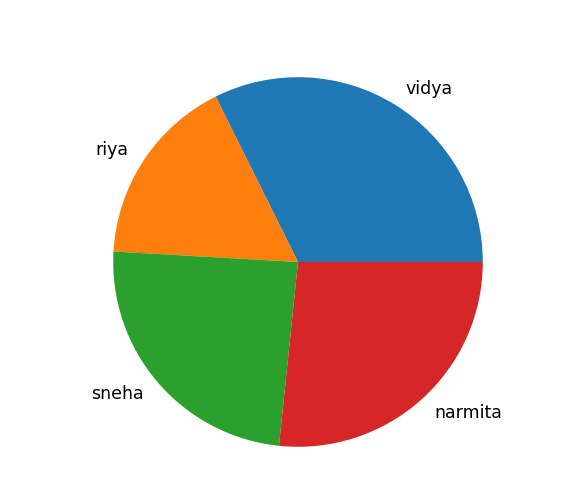
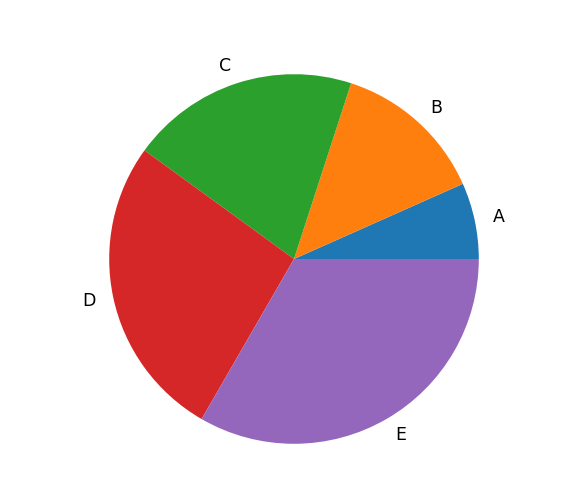
updated matplotlib-pir-charts.md file

diff --git a/contrib/plotting-visualization/matplotlib-pie-charts.md b/contrib/plotting-visualization/matplotlib-pie-charts.md
@@ -1,23 +1,90 @@
 @ -0,0 +1,118 @@
-# Pie chart
-* It is a circle chart which is divided into slices to illustrate numerical portortions.
-* With PyPlot it can created using Pie() function.
+# Pie chart in Matplotlib
+A pie chart is a type of graph that represents the data in the `circular graph`. The slices of pie show the relative size of the data, and it is a type of pictorial representation of data. A pie chart requires a list of categorical variables and numerical variables. Here, the term "pie" represents the whole, and the "slices" represent the parts of the whole.
+
+Pie charts are commonly used in business presentations like sales, operations, survey results, resources, etc. as they are pleasing to the eye and provide a quick summary.
+
+## Prerequisites
+
+Before creating pie charts in matplotlib you must ensure that you have Python as well as Matplotlib installed on your system.
+
+* In `matplotlib.pyplot` a simple pie graph can created using `Pie() function`.
 * Pie() function can only plot single type of data range only.
 
 `Labels` is used to label Slices of pie
-example:
+
+Here is an example for creating a basic pie chart.
 ```python
 import matplotlib.pyplot as plt
-contri=[17,8.8,12.75,14]
-houses=["vidya","riya","sneha","narmita"]
-plt.pie(contri,labels=houses)
+# creating dataset
+data=[10,20,30,40,50]
+labels=["A","B","C","D","E"]
+
+#creating plot
+plt.pie(data,labels=labels)
 plt.show()
 ```
+This is the output of the above code:
 ![basic pie graph](images/basic-pie-graph.png)
 
-* `autopct` is used to add formatted slice percentages to the pie chart.
+The `pie()` function takes arguments that describes the layout of the pie chart.
 
-  * `autopct  string format`   
+Here, `plt.pie(data, labels=labels)` is used to specify that the pie chart is to be plotted by taking the values from array `data` and the fractional area of each slice is represented by **data/sum(data)**. The array `labels` represents the labels of slices corresponding to each value in `data`.
+
+You can customize the graph further like specifying custom colors for slices, exploding slices, labeling wedges (slices), etc. These will be explored in the upcoming sections.
+
+## Customizing Pie Chart in Matplotlib
+
+
+### Coloring slices
+We can add custom set of colors to the slices by passing an array of colors to `colors` parameter int `pir()` function.
+
+```python
+import matplotlib.pyplot as plt
+# creating dataset
+data=[10,20,30,40,50]
+labels=["A","B","C","D","E"]
+colr = ['red', 'yellow', 'green', 'blue','orange']
+#creating plot
+plt.pie(data,labels=labels,colors=colr)
+plt.show()
+
+```
+![Coloring Slices](images/coloring_slices.png) 
+
+Here, we have created a `matplotlib.pyplot.subplots()` object which returns a `Figure` object `fig` as well as an `Axes` object `ax` both of which are used for customizing the pie chart.
+
+**Note:** Each slice of the pie chart is a `patches.Wedge` object; therefore in addition to the customizations shown here, each wedge can be customized using the `wedgeprops` argument which takes Python dictionary as parameter with name values pairs denoting the wedge properties like linewidth, edgecolor, etc.
+
+### Hatching Slices
+
+To make the pie chart more pleasing, you can pass a list of hatch patters to `hatch` parameter to set the pattern of each slice.
+
+```Python
+import matplotlib.pyplot as plt
+
+# Creating dataset
+labels = ['A','B','C','D','E']
+data = [10,20,30,40,50]
+colr = ['red', 'yellow', 'lightgreen', 'blue','orange']
+hatch = ['*', 'o', 'oO', '.', '+']     # Hatch patterns
+
+# Creating plot
+fig, ax = plt.subplots()
+ax.pie(data, labels=labels, colors=colr, hatch=hatch)
+
+# Show plot
+plt.show()
+```
+![Hatch Patterns](images/hatch_patterns.png)
+
+You can try and test your own beautiful hatch patters!
+
+### Labeling Slices
+
+`autopct` is used to add formatted slice percentages to the pie chart.
+
+`autopct  string format`   
 **"%[flags][width][.precision]type"**
 
 
@@ -42,80 +109,203 @@ plt.show()
   printed value=00123 %
   (output is printed as 2 leading zeroes)
 
-  2.) Format String: "%7.2f"
+  2.) Format String: "%5.2f"
   
   description:
   
-  width = 6 , type =float type
+  width = 5 , type =float type
   
   value=12.567
   
   printed value=_12.57
   (output is printed as 1 leading blanks)
 
+```Python
+import matplotlib.pyplot as plt
 
-* `colors` is used to change the color of the slices.
-eg:
+# Creating dataset
+labels = ['A','B','C','D','E']
+data = [10,20,30,40,50]
+colr = ['red', 'yellow', 'lightgreen', 'blue','orange']
+hatch = ['*', 'o', 'oO', '.', '+']     # Hatch patterns
+
+# Creating plot
+fig, ax = plt.subplots()
+ax.pie(data, labels=labels, colors=colr, autopct ='%1.1f%%')
+
+# Show plot
+plt.show()
 ```
-colr = ['red', 'yellow', 'green', 'blue']
+![Autopct Example](images/autopct.png)
 
+### Exploding Slices
+`explode` is used to change the position of the slices.It is used when we want to emphasize on one or more slices.
+It makes slices pulled out by given distance.
+
+```Python
+import matplotlib.pyplot as plt
+
+# Creating dataset
+labels = ['Rose','Tulip','Marigold','Sunflower','Daffodil']
+data = [11,9,17,4,7]
+colors=['red', 'lightblue', 'lightgreen', 'orange', 'pink']
+
+# Explode only the first slice, i.e 'Rose' by a distance of 0.1
+explode = [0.1, 0, 0, 0, 0]
+
+# Creating plot
+fig, ax = plt.subplots()
+ax.pie(data, labels=labels, colors=colors, explode=explode, autopct='%1.1f%%')
+
+# Show plot
+plt.show()
 ```
-* `explode` is used to change the position of the slices.
-    * It is used when we want to emphasize on one or more slices.
-    * It makes slices pulled out by given distance.
-    eg:
-
-    ```
-    expl=[0,0,0.3,0]
-    # it makes third slice exploded with a distace of 0.3 units
-    ```
+![Explode Slice](images/explode_slice.png)
 
 
-* `shadow` is used to add shadow to the pie chart.
-   * it takes boolean argument (i.e True ,False)
+### Shading slices
+`shadow` is used to add shadow to the pie chart.It takes boolean argument (i.e True ,False)
 
-* `startangle` is used to change the starting angle of the pie chart.
-* `wedgeprops` is used to change the properties of the wedges.
-example:
+```Python
+import matplotlib.pyplot as plt
+
+# Creating dataset
+labels = ['Rose','Tulip','Marigold','Sunflower','Daffodil']
+data = [11,9,17,4,7]
+colors=['red', 'lightblue', 'lightgreen', 'orange', 'pink']
+
+# Explode only the first slice, i.e 'Rose'
+explode = [0.1, 0, 0, 0, 0]
+
+# Creating plot
+fig, ax = plt.subplots()
+ax.pie(data, labels=labels, colors=colors, explode=explode, shadow=True, autopct='%1.1f%%')
+
+# Show plot
+plt.show()
 ```
-wedge_properties = {'edgecolor': 'black','linewidth': 2,'linestyle': 'dashed','alpha': 0.7}   
+![Shadow](images/shadow.png)
 
+### Rotating Slices
+`startangle` is used to rotate slicesby passing a start angle parameter.
+
+
+```Python
+import matplotlib.pyplot as plt
+
+# Creating dataset
+labels = ['Rose','Tulip','Marigold','Sunflower','Daffodil']
+data = [11,9,17,4,7]
+colors=['red', 'lightblue', 'green', 'orange', 'pink']
+
+# Creating plot
+fig, ax = plt.subplots()
+ax.pie(data, labels=labels, colors=colors, startangle=90, autopct='%1.1f%%')
+
+# Show plot
+plt.show()
 ```
-* `textprops` is used to change the properties of the text.
+![Rotating Slices](images/rotating_slices.png)
 
+The default `startangle` is 0, which would start the first slice ('Rose') on the positive x-axis. This example sets `startangle=90` such that all the slices are rotated counter-clockwise by 90 degrees, and the `'Rose'` slice starts on the positive y-axis.
+
+### Controlling Size of Pie Chart
+
+In addition to the size of figure, you can also control the size of pie chart using the `radius` parameter.
+
+```Python
+import matplotlib.pyplot as plt
+
+# Creating dataset
+labels = ['Rose','Tulip','Marigold','Sunflower','Daffodil']
+data = [11,9,17,4,7]
+colors=['red', 'lightblue', 'lightgreen', 'orange', 'pink']
+
+# Creating plot
+fig, ax = plt.subplots()
+ax.pie(data, labels=labels, colors=colors, startangle=90, autopct='%1.1f%%', textprops={'size': 'smaller'}, radius=0.7)
+
+# Show plot
+plt.show()
+```
+![Controlling Size](images/radius.png)
+
+Note that `textprops` is an additional argument which can be used for controlling the propoerties of any text in the pie chart. In this case, we have specified that the size of text should be smaller. There are many more such properties available in `textprops`.
+Like:
   * fontsize: Sets the size of the font.
   * color: Specifies the color of the text. Accepts any valid color value in Matplotlib.
   * fontweight: Sets the weight of the font (e.g., 'normal', 'bold', 'heavy', 'light', etc.).
   * fontstyle: Defines the style of the font (e.g., 'normal', 'italic', 'oblique').
   * family: Sets the font family (e.g., 'serif', 'sans-serif', 'monospace').
 
-```
-text_properties = {'fontsize': 14,'color': 'green','fontweight': 'bold','fontstyle': 'italic','family': 'serif'}
+
+###  Customizing Wedges 
+
+`wedgeprops` is used to change the properties of the wedges.
+
+```python
+
+import matplotlib.pyplot as plt
+
+# Creating dataset
+labels = ['Rose', 'Tulip', 'Marigold', 'Sunflower', 'Daffodil']
+data = [11, 9, 17, 4, 7]
+colors = ['red', 'lightblue', 'lightgreen', 'orange', 'pink']
+wedge_properties = {'edgecolor': 'black', 'linewidth': 2, 'linestyle': 'dashed', 'alpha': 0.7}
+
+# Creating plot
+fig, ax = plt.subplots()
+ax.pie(data, labels=labels, colors=colors, startangle=90, autopct='%1.1f%%', wedgeprops=wedge_properties)
+
+# Show plot
+plt.show()
 ```
 
+![Customizing Wedges](images/Customizing_Wedges.png)
+
+### Label distance 
 * `labeldistance` is used to change the distance of the labels from the pie chart.
 example:
   * labeldistance=1.0 places the labels exactly on the boundary of the pie.
   * labeldistance=1.2 places the labels slightly outside the boundary.
   * labeldistance=0.8 places the labels inside the boundary.
 
-
-
-eg:
-
-
 ```python
 import matplotlib.pyplot as plt
-contri=[17,8.8,12.75,14]
-colr = ['red', 'yellow', 'green', 'blue']
-houses=["vidya","riya","sneha","narmita"]
-expl=[0,0,0.2,0]
-wedge_properties = {'edgecolor': 'black','linewidth': 2,'linestyle': 'dashed','alpha': 0.7}
-text_properties = {'fontsize': 14,'color': 'green','fontweight': 'bold','fontstyle': 'italic','family': 'serif'}
 
-plt.pie(contri,labels=houses,colors=colr = ['red', 'yellow', 'green', 'blue'] , explode=expl,wedgeprops=wedge_properties ,shadow =True,
-startangle=45 , textprops=text_properties,labeldistance=1.2 , autopct='%1.1f%%)
+# Creating dataset
+labels = ['Rose', 'Tulip', 'Marigold', 'Sunflower', 'Daffodil']
+data = [11, 9, 17, 8, 7]
+colors = ['red', 'lightblue', 'lightgreen', 'orange', 'pink']
+wedge_properties = {'edgecolor': 'black', 'linewidth': 2, 'linestyle': 'dashed', 'alpha': 0.7}
+
+# Creating plot
+fig, ax = plt.subplots()
+ax.pie(data, labels=labels, colors=colors, labeldistance=1,autopct='%1.1f%%')
+
+# Show plot
 plt.show()
 ```
+![Label distance](images/label_distance.png)
 
-![example pie graph (output)](images/pie-graph.png)
+### Adding Legends
+
+You can also use legends to act like a label to slices, like this:
+
+```Python
+import matplotlib.pyplot as plt
+
+# Creating dataset
+labels = ['Rose','Tulip','Marigold','Sunflower','Daffodil']
+data = [11,9,17,4,7]
+colors=['red', 'blue', 'green', 'orange', 'pink']
+
+# Creating plot
+fig, ax = plt.subplots(figsize=(7,7))
+ax.pie(data, colors=colors, startangle=90, autopct='%1.1f%%', radius=0.7)
+plt.legend(labels, title="Flowers")
+
+# Show plot
+plt.show()
+```
+![Legends](images/legends.png)
